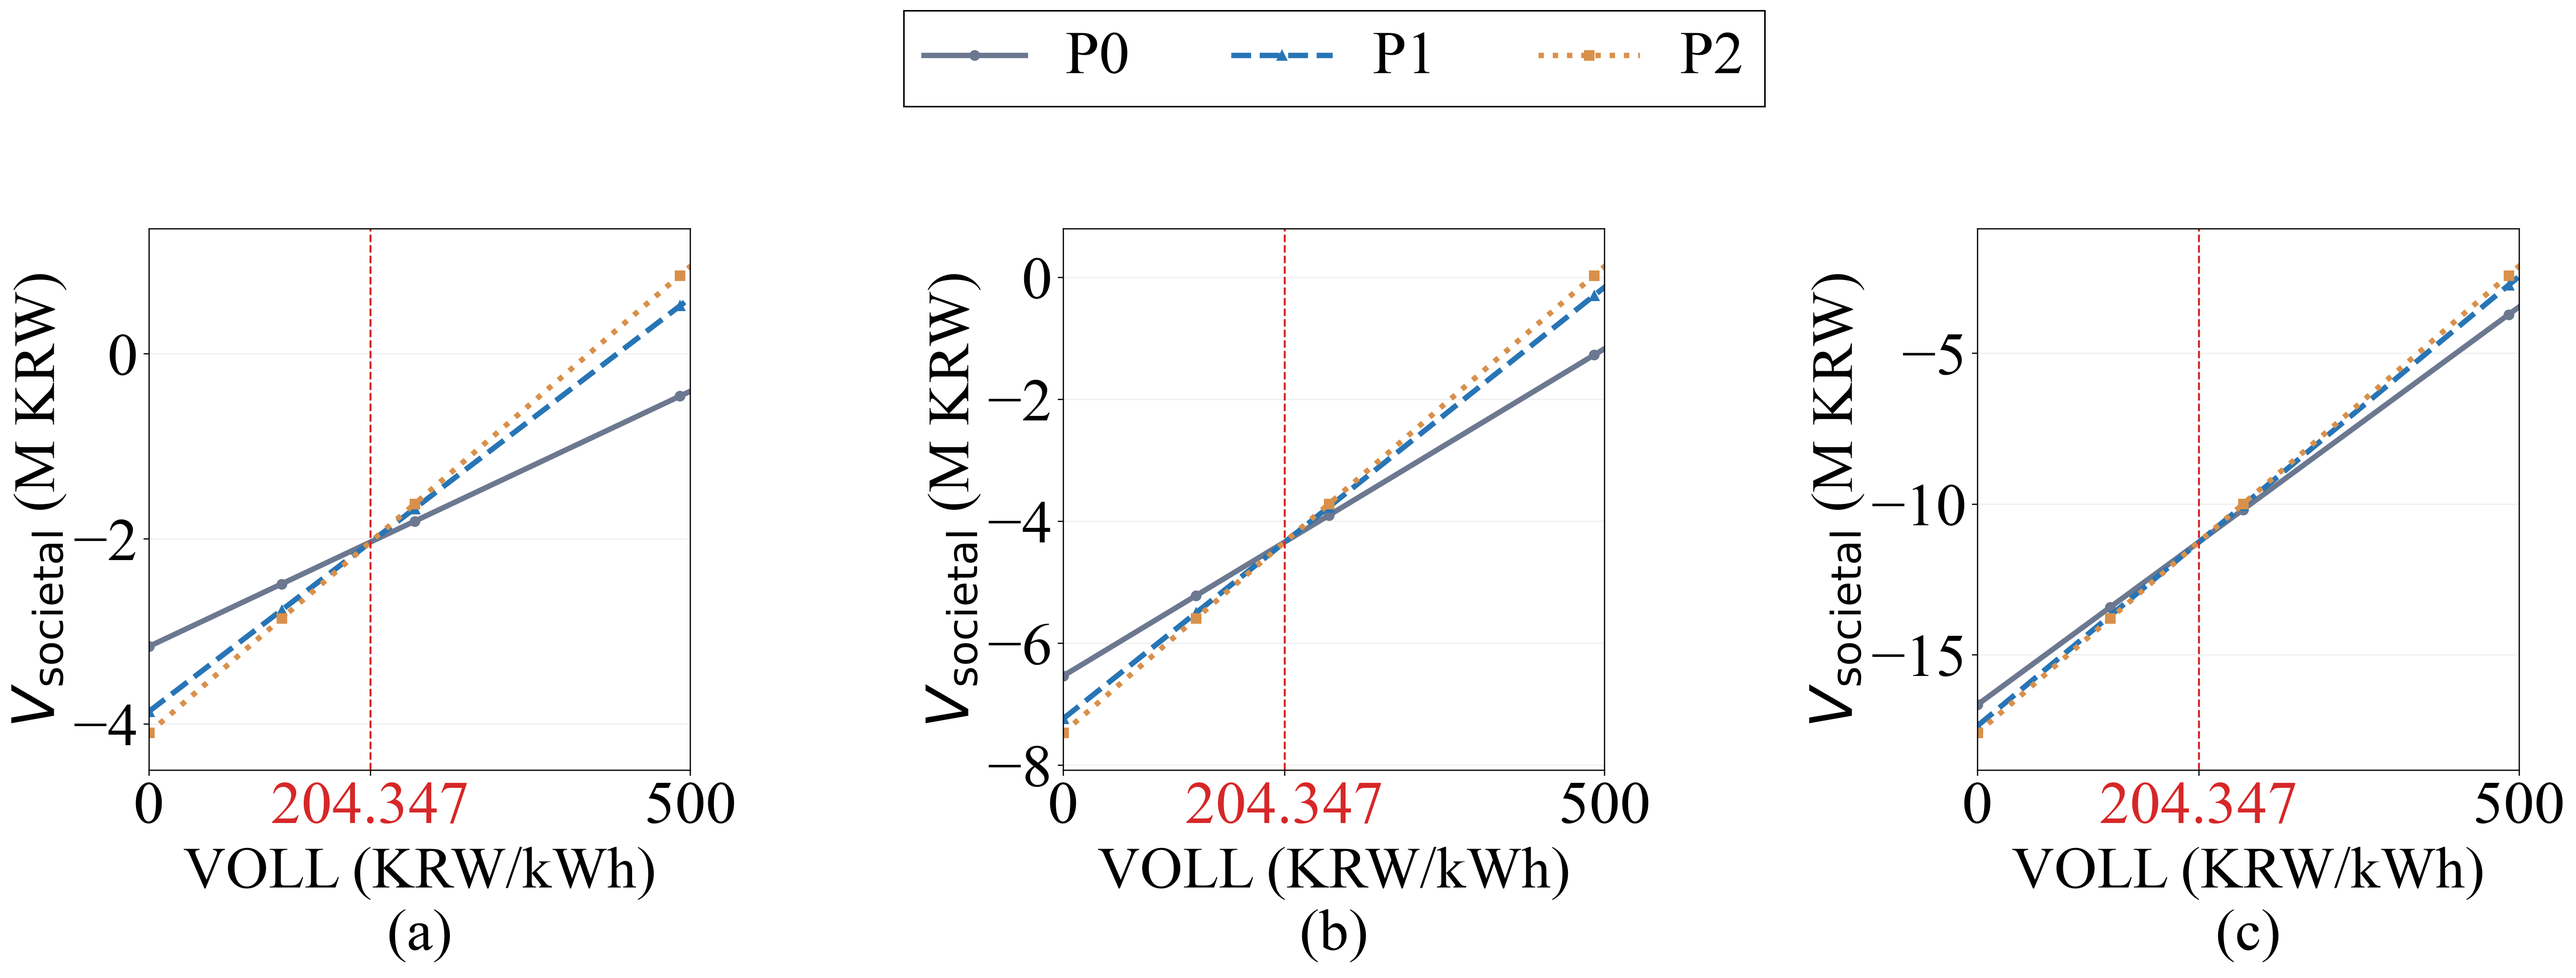
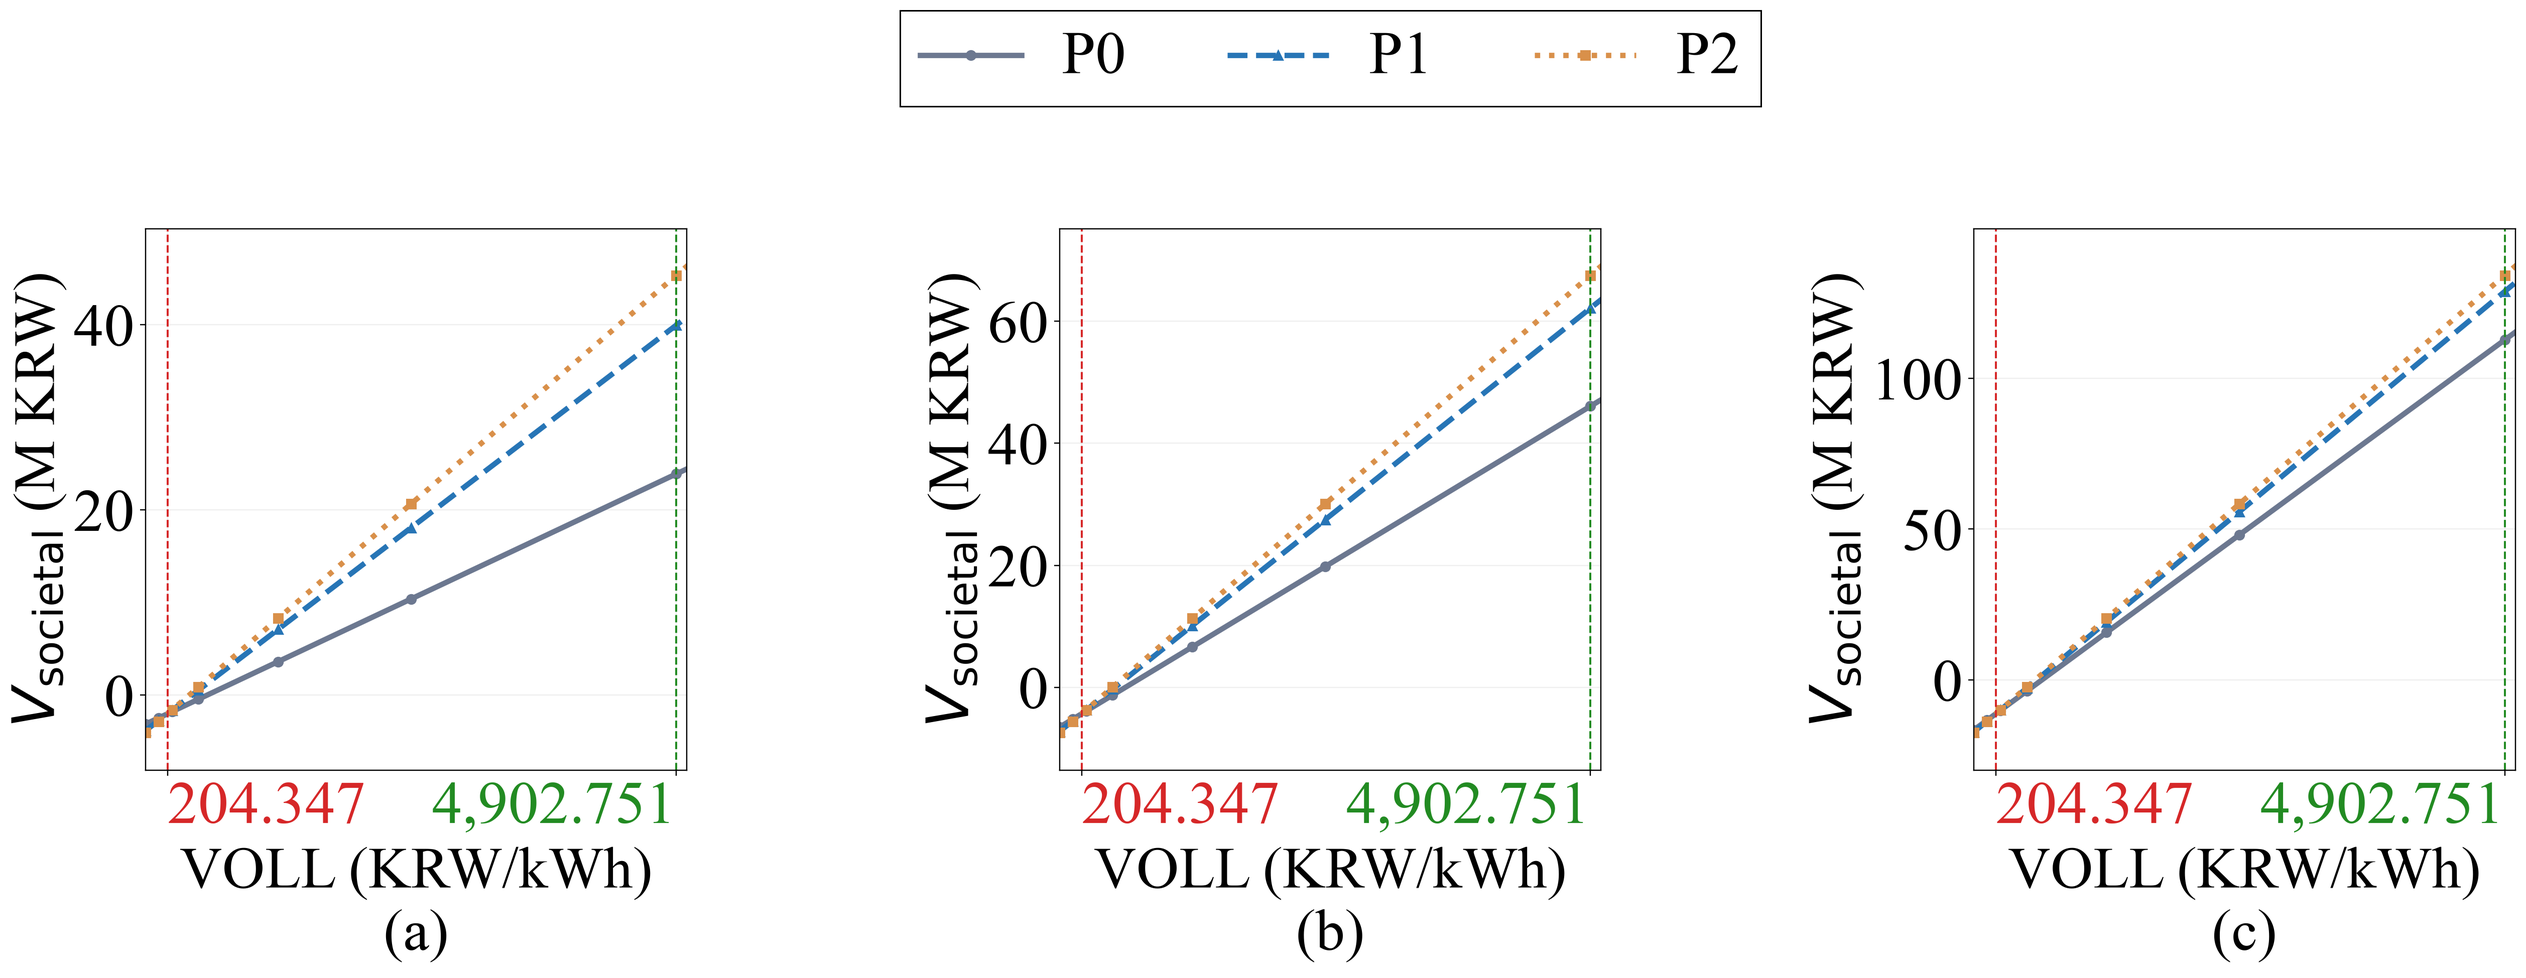
Show reference VOLL in Figure 11

diff --git a/p1_additional_analysis.py b/p1_additional_analysis.py
@@ -137,7 +137,7 @@ def main() -> None:
             run = runs[1.3, trucks, strategy]
             x = np.array(MULTIPLIERS) * VOLL_KRW_PER_KWH
             y = np.array([societal(run, voll) / 1e6 for voll in x])
-            visible_values.extend((societal(run, 0) / 1e6, societal(run, 500) / 1e6))
+            visible_values.extend((societal(run, 0) / 1e6, societal(run, 5000) / 1e6))
             axis.plot(x, y, color=color, marker=marker, linestyle=linestyle,
                       linewidth=3.5, label=label)
             for multiple, voll, value in zip(MULTIPLIERS, x, y, strict=True):
@@ -152,13 +152,20 @@ def main() -> None:
                     }
                 )
         axis.axvline(break_even, color="#d62728", linestyle="--", linewidth=1.3)
+        axis.axvline(VOLL_KRW_PER_KWH, color="#228b22", linestyle="--", linewidth=1.3)
         axis.set_xlabel(f"VOLL (KRW/kWh)\n({letter})")
         axis.set_ylabel(r"$V_{\mathrm{societal}}$ (M KRW)")
         axis.tick_params(axis="y", labelleft=True)
         axis.set_box_aspect(1)
-        axis.set_xlim(0, 500)
-        axis.set_xticks((0, break_even, 500), ("0", f"{break_even:.3f}", "500"))
-        axis.get_xticklabels()[1].set_color("#d62728")
+        axis.set_xlim(0, 5000)
+        axis.set_xticks(
+            (break_even, VOLL_KRW_PER_KWH),
+            (f"{break_even:.3f}", f"{VOLL_KRW_PER_KWH:,.3f}"),
+        )
+        axis.get_xticklabels()[0].set_color("#d62728")
+        axis.get_xticklabels()[0].set_ha("left")
+        axis.get_xticklabels()[-1].set_color("#228b22")
+        axis.get_xticklabels()[-1].set_ha("right")
         lower, upper = min(visible_values), max(visible_values)
         padding = (upper - lower) * 0.08
         axis.set_ylim(lower - padding, upper + padding)
